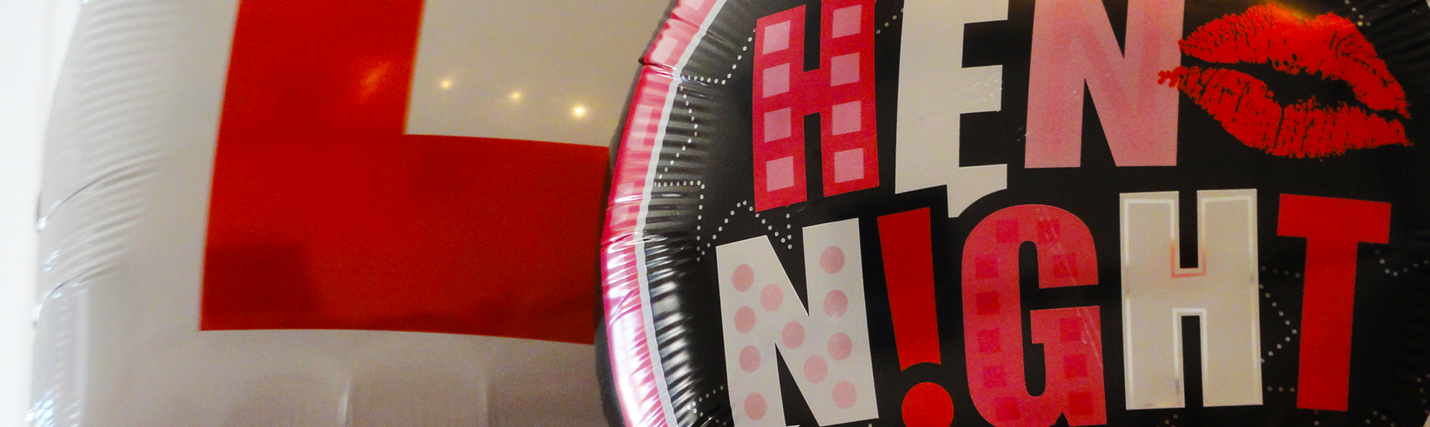
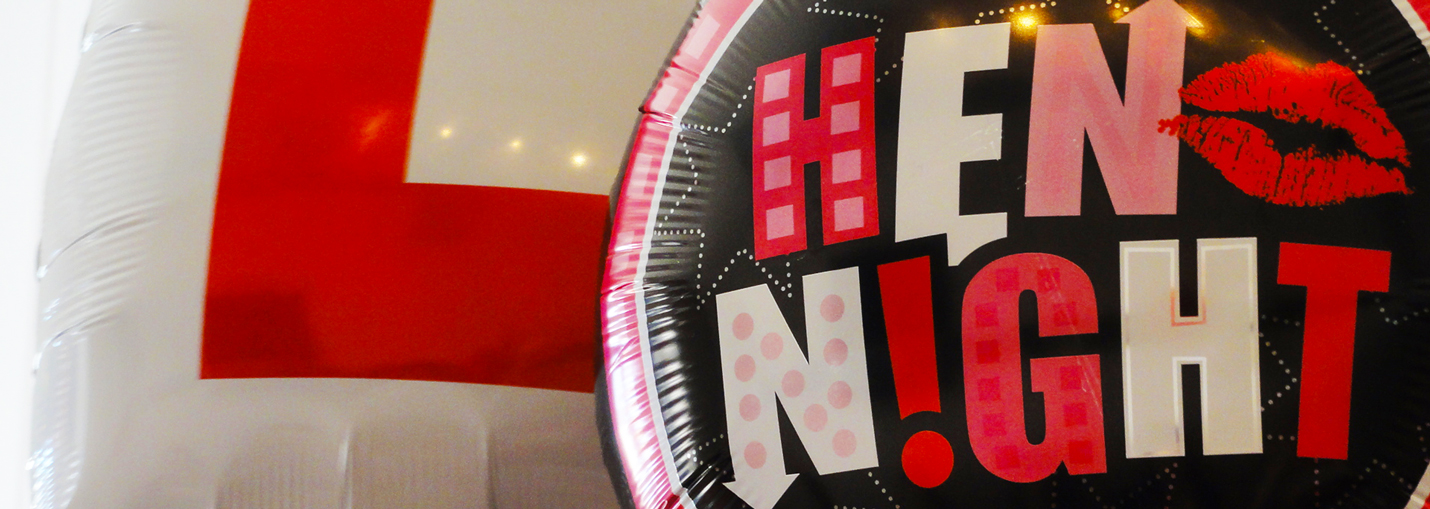
New dashboard image

diff --git a/app/assets/stylesheets/homes.css.scss b/app/assets/stylesheets/homes.css.scss
@@ -50,6 +50,14 @@ body.homes-index {
       padding-right:10px;
     }
 }
+.dash-img {
+  position: fixed;
+  z-index: -1;
+  width:100%;
+  @media (max-width: 768px) {
+      width:auto;
+    } 
+}
 
 .wrapper {
   background:#e2dfe0;
@@ -57,7 +65,10 @@ body.homes-index {
   .row {margin-top:15px;}
 }
 
-.nav-tabs {margin-top:45px;}
+.nav-tabs {
+  margin-top:70px;
+  a {background: #fff;}
+}
 
 .event_details {
   float:left;
@@ -124,10 +135,7 @@ body.homes-index {
   font-weight: 300;
 }
 
-.dash-img {
-  position: fixed;
-  z-index: -1;
-}
+
 
 .sessions-new, .registrations-new, .passwords-new, .registrations-edit, .create_event-index {
   background:$very-dark;

diff --git a/app/assets/stylesheets/scaffolds.css.scss b/app/assets/stylesheets/scaffolds.css.scss
@@ -65,10 +65,18 @@ header{
 }
 
 .lw-header {
-  background:#fff;
   padding:25px 0;
   border-bottom: 1px solid #d1b8c0;
   h1 {margin:0;}
+  background:#fff;
+}
+
+body.messages-index, body.homes-index, body.my_events-index {
+  .lw-header  {
+    border:none;
+    h1 {color:#fff;}
+    background:none!important;
+  }
 }
 
 .logo {
